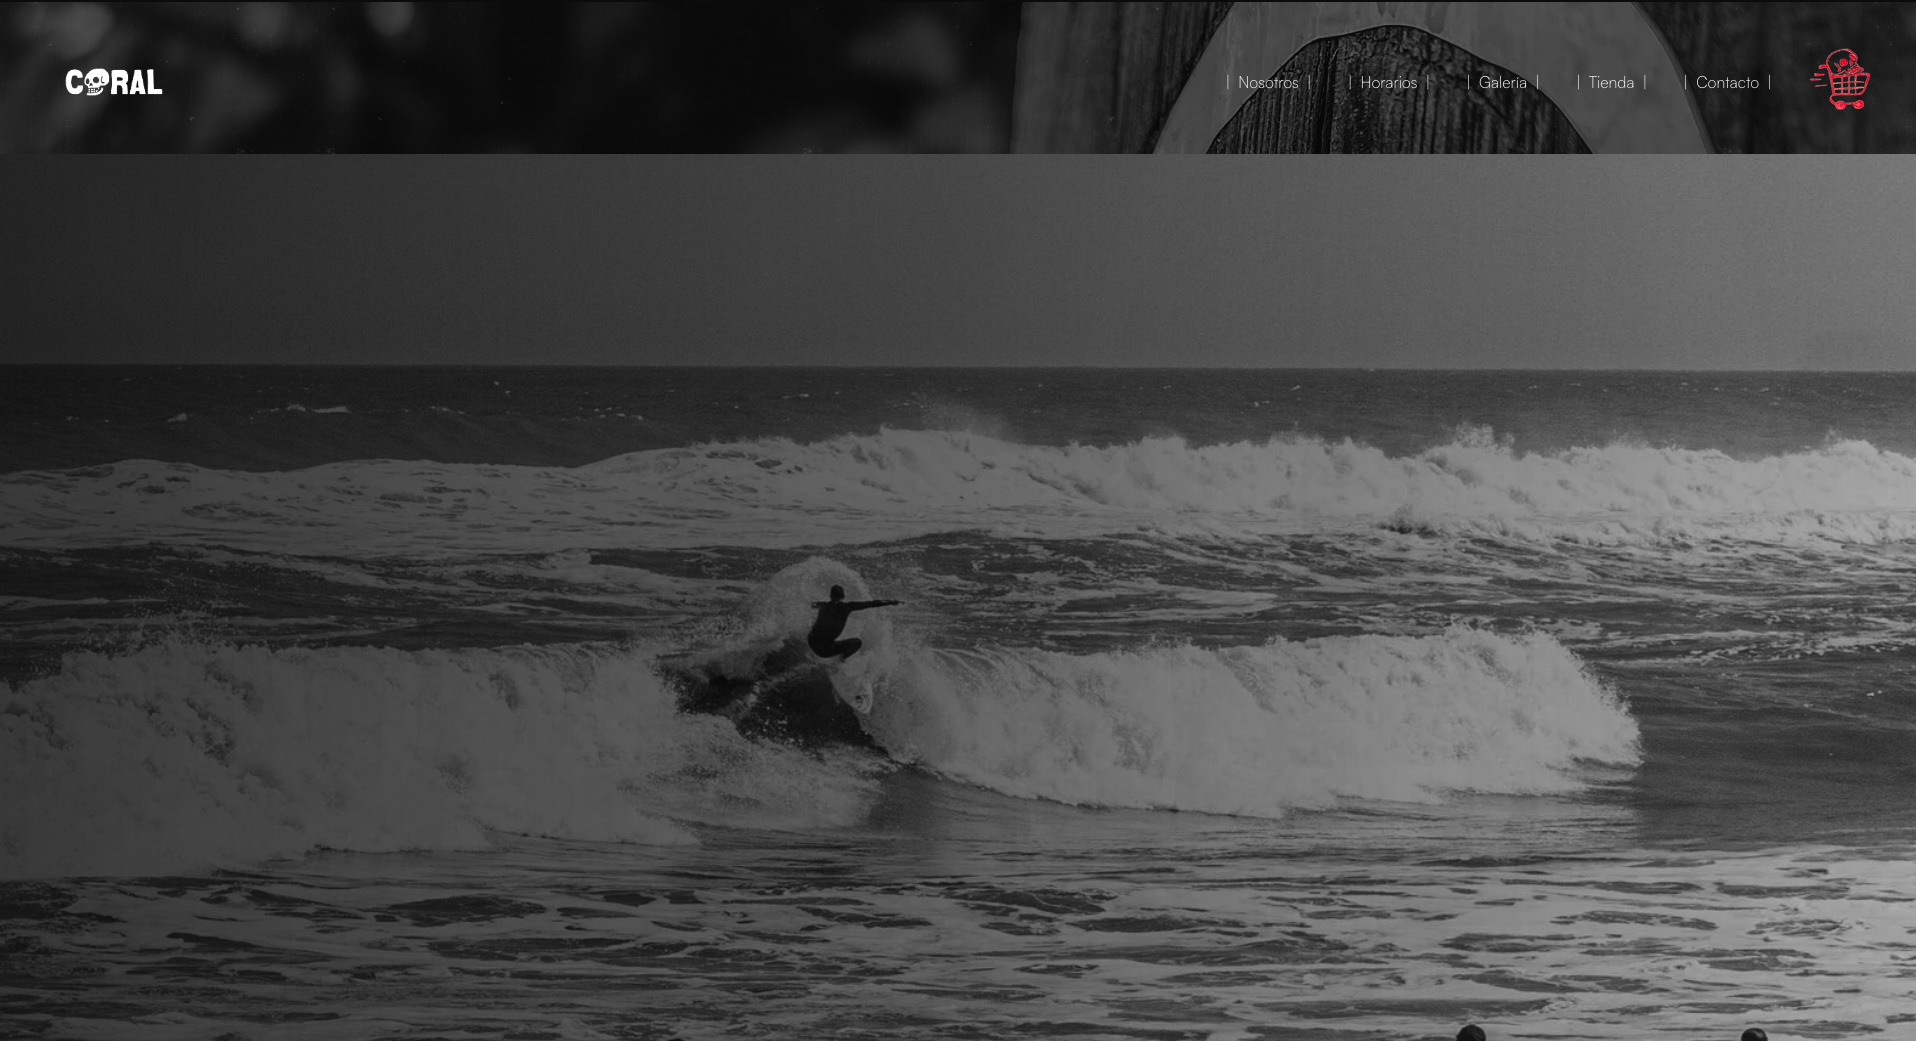
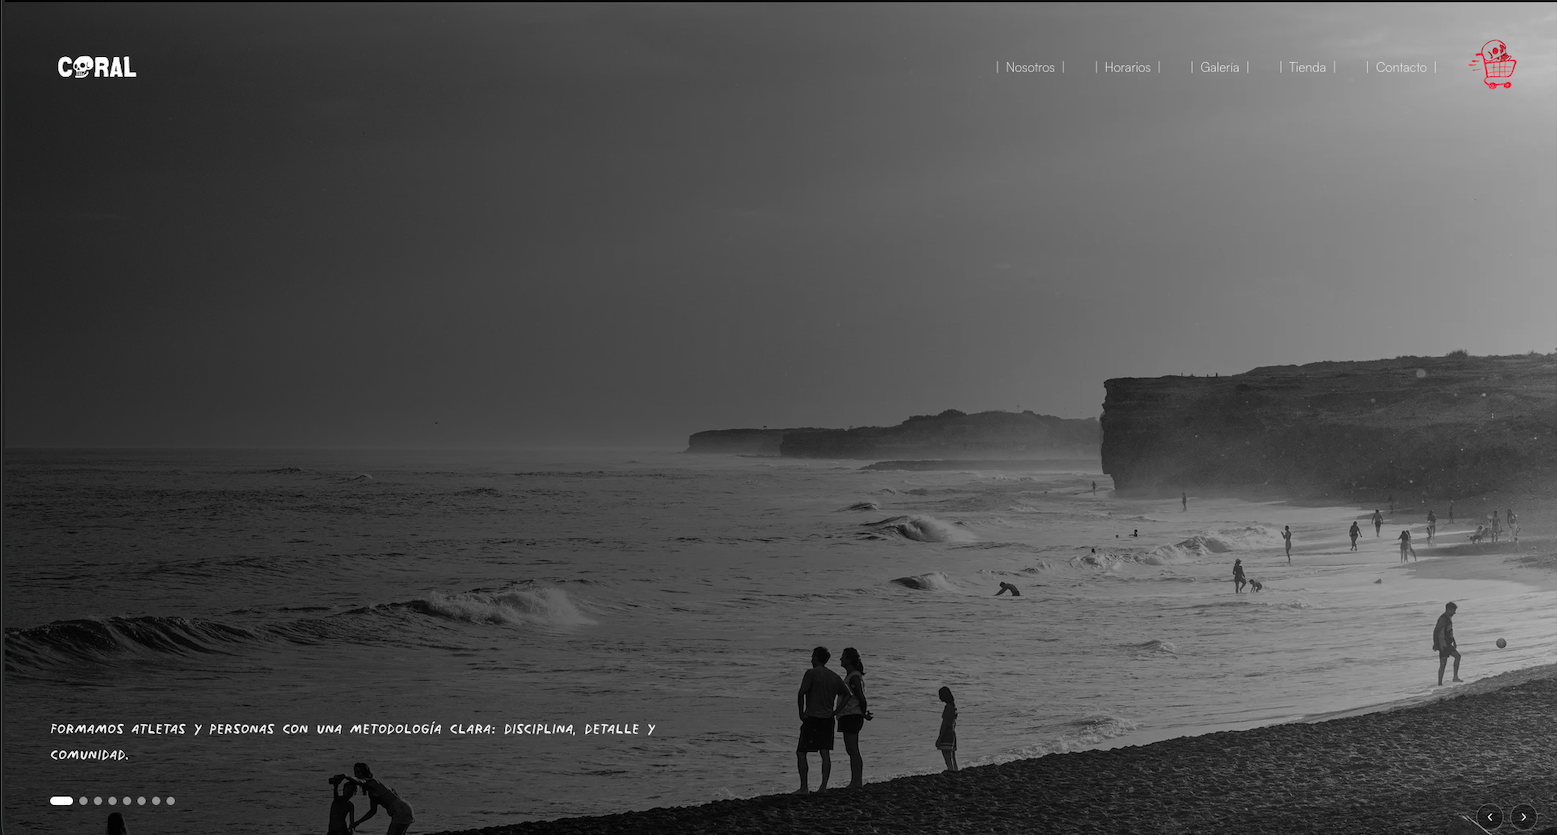
feat: mejoras visuales modales, follower dot y proyectos
- Añade FollowerDot con física de resorte (Framer Motion)
- Modal: descripción por proyecto, marquee más grande y lento
- Marquee: usa todas las fotos de cada proyecto (sin fotoUno)
- Tarjetas: aspect-ratio 16/9, cover + object-position top
- Teñido sépia en frente, color completo al girar (flip)
- Tipo ProyectoPortfolio: nuevo campo description
- Fix: comillas tipográficas en portfolio-es.ts

diff --git a/src/app/globals.css b/src/app/globals.css
@@ -343,7 +343,7 @@ h1.hero-poster-title {
 .proj-flip-card {
   perspective: 1000px;
   width: 100%;
-  aspect-ratio: 4 / 3;
+  aspect-ratio: 16 / 9;
 }
 
 .proj-flip-inner {
@@ -351,7 +351,7 @@ h1.hero-poster-title {
   width: 100%;
   height: 100%;
   transform-style: preserve-3d;
-  transition: transform 0.6s cubic-bezier(0.4, 0, 0.2, 1);
+  transition: transform 0.65s cubic-bezier(0.4, 0, 0.2, 1);
 }
 
 .proj-flip-card:hover .proj-flip-inner {
@@ -368,6 +368,7 @@ h1.hero-poster-title {
   -webkit-backface-visibility: hidden;
 }
 
+/* ── FRENTE: imagen en escala de grises + teñido cálido de la paleta ── */
 .proj-flip-front {
   background: var(--surface);
 }
@@ -376,9 +377,25 @@ h1.hero-poster-title {
   width: 100%;
   height: 100%;
   object-fit: cover;
+  object-position: top;
   display: block;
+  /* Convierte a escala de grises y aplica tono cálido de la página */
+  filter: grayscale(1) sepia(0.32) contrast(1.05) brightness(0.97);
+  transition: filter 0.3s ease;
 }
 
+/* Overlay de color que refuerza el teñido con el tono exacto de la paleta */
+.proj-flip-front::after {
+  content: "";
+  position: absolute;
+  inset: 0;
+  background: color-mix(in srgb, #e9e9e4 28%, transparent);
+  mix-blend-mode: multiply;
+  pointer-events: none;
+  border-radius: 0.875rem;
+}
+
+/* ── DORSO: imagen a todo color ── */
 .proj-flip-back {
   transform: rotateY(180deg);
   cursor: pointer;
@@ -391,24 +408,14 @@ h1.hero-poster-title {
   position: absolute;
   inset: 0;
   background-size: cover;
-  background-position: center;
+  background-position: top center;
+  background-repeat: no-repeat;
+  /* Imagen a todo color, ligero zoom para vida */
+  transition: transform 0.65s cubic-bezier(0.4, 0, 0.2, 1);
 }
 
-.proj-back-overlay {
-  position: absolute;
-  inset: 0;
-  background: rgba(0, 0, 0, 0.58);
-}
-
-.proj-back-title {
-  position: relative;
-  z-index: 1;
-  color: #e9e9e4;
-  font-size: 1.05rem;
-  font-weight: 700;
-  letter-spacing: 0.02em;
-  text-align: center;
-  padding: 0 1.25rem;
+.proj-flip-card:hover .proj-back-bg {
+  transform: scale(1.04);
 }
 
 /* ── MODAL DE PROYECTO ── */
@@ -481,6 +488,20 @@ h1.hero-poster-title {
   display: block;
 }
 
+/* ── DESCRIPCIÓN DEL MODAL ── */
+
+.proj-modal-desc {
+  margin: 0;
+  padding: 0.1rem 0.25rem;
+  font-size: clamp(0.88rem, 1.4vw, 0.98rem);
+  line-height: 1.72;
+  font-weight: 400;
+  color: color-mix(in srgb, var(--foreground) 72%, transparent);
+  text-wrap: pretty;
+  border-left: 2px solid color-mix(in srgb, var(--foreground) 14%, transparent);
+  padding-left: 1rem;
+}
+
 /* ── MARQUEE DEL MODAL ── */
 
 .proj-marquee-wrap {
@@ -489,25 +510,27 @@ h1.hero-poster-title {
   width: 100%;
   gap: 0;
   border-top: 1px solid rgba(17, 18, 24, 0.1);
-  padding-top: 1rem;
+  padding-top: 1.1rem;
+  mask-image: linear-gradient(to right, transparent, #000 6%, #000 94%, transparent);
 }
 
 .proj-marquee-track {
   display: flex;
   flex-shrink: 0;
   min-width: 100%;
-  gap: 1rem;
-  animation: proj-scroll 22s linear infinite;
-  padding-right: 1rem;
+  gap: 1.1rem;
+  animation: proj-scroll 38s linear infinite;
+  padding-right: 1.1rem;
 }
 
 .proj-marquee-item {
-  width: 220px;
-  height: 145px;
+  width: 380px;
+  height: 230px;
   flex-shrink: 0;
-  border-radius: 0.625rem;
+  border-radius: 0.75rem;
   overflow: hidden;
-  border: 1px solid rgba(17, 18, 24, 0.1);
+  border: 1px solid rgba(17, 18, 24, 0.08);
+  box-shadow: 0 4px 16px rgba(0,0,0,0.07);
 }
 
 .proj-marquee-img {

diff --git a/src/components/follower-dot.tsx b/src/components/follower-dot.tsx
@@ -1,0 +1,68 @@
+"use client";
+
+import { useEffect, useRef, useState } from "react";
+import { motion, useSpring, useTransform, useMotionValue } from "framer-motion";
+
+/** Tamaño del punto en px — se resta la mitad para centrarlo exactamente */
+const DOT_SIZE = 8;
+const HALF = DOT_SIZE / 2;
+
+/** Parámetros del resorte: retraso orgánico y suave */
+const SPRING_CONFIG = {
+  stiffness: 150,
+  damping: 15,
+  mass: 0.5,
+};
+
+export function FollowerDot() {
+  const [mounted, setMounted] = useState(false);
+  const [hasHover, setHasHover] = useState(false);
+
+  // Motion values crudas (sin spring) para la posición real del mouse
+  const rawX = useMotionValue(-100);
+  const rawY = useMotionValue(-100);
+
+  // Valores con física de resorte aplicada
+  const springX = useSpring(rawX, SPRING_CONFIG);
+  const springY = useSpring(rawY, SPRING_CONFIG);
+
+  // Restamos la mitad del tamaño para centrar el punto en la punta del cursor
+  const x = useTransform(springX, (v) => v - HALF);
+  const y = useTransform(springY, (v) => v - HALF);
+
+  useEffect(() => {
+    setMounted(true);
+    // Solo en dispositivos que soportan hover real (no táctiles)
+    setHasHover(window.matchMedia("(hover: hover)").matches);
+  }, []);
+
+  useEffect(() => {
+    if (!hasHover) return;
+
+    const handleMove = (e: MouseEvent) => {
+      rawX.set(e.clientX);
+      rawY.set(e.clientY);
+    };
+
+    window.addEventListener("mousemove", handleMove, { passive: true });
+    return () => window.removeEventListener("mousemove", handleMove);
+  }, [hasHover, rawX, rawY]);
+
+  // No renderizar en SSR ni en táctil
+  if (!mounted || !hasHover) return null;
+
+  return (
+    <motion.div
+      aria-hidden="true"
+      style={{ x, y, width: DOT_SIZE, height: DOT_SIZE }}
+      className="
+        fixed top-0 left-0 z-[9999]
+        rounded-full
+        bg-[var(--foreground)]
+        opacity-55
+        pointer-events-none
+        will-change-transform
+      "
+    />
+  );
+}

diff --git a/src/data/portfolio-es.ts b/src/data/portfolio-es.ts
@@ -31,16 +31,22 @@ export const portfolioEs = {
       name: "T W S -Tech With Soul-",
       cover: "/proyectoUno/fotoUno.png",
       video: "/proyectoUno/demo tws website.mp4",
+      description:
+        "TWS (Tech With Soul) — Plataforma Corporativa. Diseño e implementación del sitio web oficial para TWS, concebido para posicionar a la empresa como un socio tecnológico estratégico para negocios en crecimiento. La arquitectura del proyecto es una 'one-page expandida' que ofrece una experiencia de usuario de alto nivel.",
       marqueeImages: [
         "/proyectoUno/fotoDos.png",
         "/proyectoUno/fotoTres.png",
         "/proyectoUno/fotoCuatro.png",
+        "/proyectoUno/fotoCinco.png",
+        "/proyectoUno/fotoSeis.png",
       ],
     },
     {
       name: "Sukha - Papeleria Creativa -",
       cover: "/proyectoDos/fotoUno.png",
       video: "/proyectoDos/demo sukha website.mp4",
+      description:
+        "Aplicación web Full-Stack desarrollada a medida para SUKHA Papelería Creativa. Soluciona la falta de control administrativo digitalizando un extenso catálogo y automatizando el cálculo de rentabilidad, logrando que la dueña sepa con exactitud qué vende y cuánto factura. Stack: React · Tailwind CSS · Node.js · Express · Supabase.",
       marqueeImages: [
         "/proyectoDos/fotoDos.png",
         "/proyectoDos/fotoTres.png",
@@ -51,6 +57,8 @@ export const portfolioEs = {
       name: "Coral bjj Studio",
       cover: "/proyectoTres/fotoUno.png",
       video: "/proyectoTres/demo coral website (online-video-cutter.com).mp4",
+      description:
+        "Desarrollo de una plataforma digital integral para una academia de Jiu Jitsu. El proyecto combina una web institucional con fuerte identidad visual ('estética coral') y una tienda online enfocada en la venta de su merchandising oficial.",
       marqueeImages: [
         "/proyectoTres/fotoDos.png",
         "/proyectoTres/fotoTres.png",

diff --git a/src/components/sections/seccion-proyectos.tsx b/src/components/sections/seccion-proyectos.tsx
@@ -31,14 +31,6 @@ function ModalProyecto({
     };
   }, [onClose]);
 
-  // Duplicar imágenes del marquee para loop continuo sin saltos
-  const imgsMarquee = [
-    ...proyecto.marqueeImages,
-    ...proyecto.marqueeImages,
-    ...proyecto.marqueeImages,
-    ...proyecto.marqueeImages,
-  ];
-
   return (
     <div
       className="proj-modal-overlay"
@@ -77,17 +69,20 @@ function ModalProyecto({
           />
         </div>
 
-        {/* Marquee */}
+        {/* Descripción */}
+        <p className="proj-modal-desc">{proyecto.description}</p>
+
+        {/* Marquee — dos tracks duplicados para loop continuo sin saltos */}
         <div className="proj-marquee-wrap">
           <div className="proj-marquee-track">
-            {imgsMarquee.map((src, i) => (
+            {proyecto.marqueeImages.map((src, i) => (
               <div key={i} className="proj-marquee-item">
                 <img src={src} alt="" className="proj-marquee-img" />
               </div>
             ))}
           </div>
           <div className="proj-marquee-track" aria-hidden="true">
-            {imgsMarquee.map((src, i) => (
+            {proyecto.marqueeImages.map((src, i) => (
               <div key={i} className="proj-marquee-item">
                 <img src={src} alt="" className="proj-marquee-img" />
               </div>
@@ -129,8 +124,6 @@ export function SeccionProyectos({ proyectos }: SeccionProyectosProps) {
                     className="proj-back-bg"
                     style={{ backgroundImage: `url(${proyecto.cover})` }}
                   />
-                  <div className="proj-back-overlay" />
-                  <span className="proj-back-title">{proyecto.name}</span>
                 </div>
               </div>
             </div>

diff --git a/src/app/layout.tsx b/src/app/layout.tsx
@@ -1,6 +1,7 @@
 import type { Metadata } from "next";
 import { GeistMono } from "geist/font/mono";
 import { Bebas_Neue, Manrope } from "next/font/google";
+import { FollowerDot } from "@/components/follower-dot";
 import "./globals.css";
 
 const headingFont = Bebas_Neue({
@@ -30,7 +31,10 @@ export default function RootLayout({
       lang="es"
       className={`${headingFont.variable} ${bodyFont.variable} ${GeistMono.variable} h-full antialiased`}
     >
-      <body className="min-h-full flex flex-col">{children}</body>
+      <body className="min-h-full flex flex-col">
+        <FollowerDot />
+        {children}
+      </body>
     </html>
   );
 }

diff --git a/src/types/portfolio.ts b/src/types/portfolio.ts
@@ -22,6 +22,7 @@ export type ProyectoPortfolio = {
   name: string;
   cover: string;
   video: string;
+  description: string;
   marqueeImages: readonly string[];
 };
 
